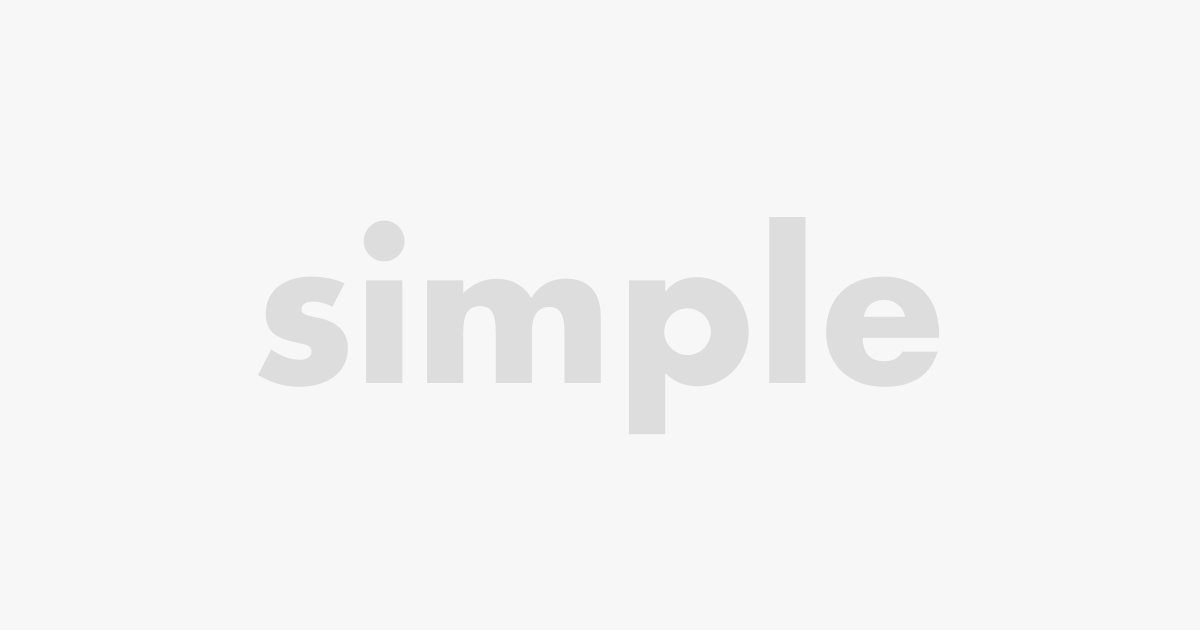
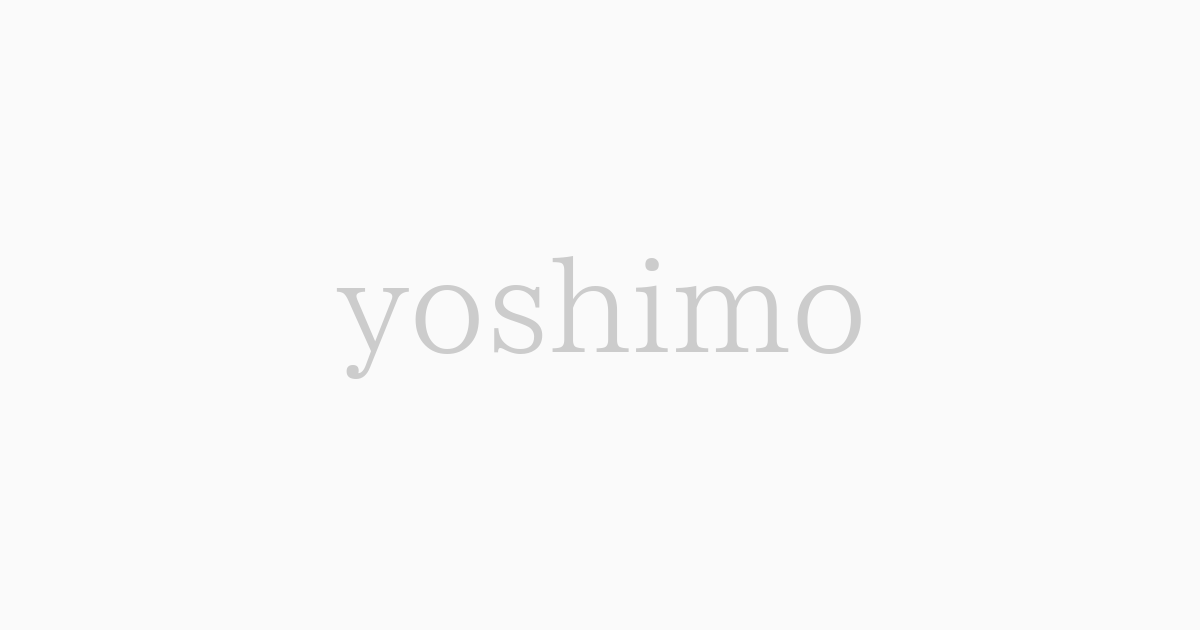
refactor:Adjusting styling and changing wording(#45)

Changed region(s): [[0.2158, 0.3317, 0.8017, 0.6937]]

diff --git a/app/layout.tsx b/app/layout.tsx
@@ -11,11 +11,11 @@ const inter = Inter({ subsets: ['latin'] })
 
 export const metadata: Metadata = {
   metadataBase: new URL(process.env.BASE_URL || 'http://localhost:3000'),
-  title: 'Simple Blog',
-  description: 'A simple blog presented by microCMS',
+  title: 'Yoshimo Blog',
+  description: 'A yoshimo blog presented by yoshimo',
   openGraph: {
-    title: 'Simple Blog',
-    description: 'A simple blog presented by microCMS',
+    title: 'Yoshimo Blog',
+    description: 'A yoshimo blog presented by yoshimo',
     images: '/ogp.png',
   },
   alternates: {

diff --git a/components/article/index.tsx b/components/article/index.tsx
@@ -10,7 +10,7 @@ type Props = {
 export default function Article({ data }: Props) {
   return (
     <main className="flex flex-col justify-between items-center">
-      <h1 className="text-4xl mb-6 text-center">{data.title}</h1>
+      <h1 className="text-4xl mb-6 text-center font-bold">{data.title}</h1>
       <TagList tags={data.tags} />
       <p className="my-6 mx-10 sm:mx-0 sm:mt-6 sm:mb-10 text-[#999] text-center">
         {data.description}

diff --git a/components/searchField/index.tsx b/components/searchField/index.tsx
@@ -25,7 +25,7 @@ export default function SearchField() {
       name="q"
       ref={inputRef}
       className="py-0 pr-6 pl-12 border-y border-x border-solid border-[#ccc]
-      rounded-2xl w-full sm:w-[600px] height-[40px] box-border my-0 mx-6 sm:mx-0
+      rounded-3xl w-full sm:w-[600px] h-10 box-border my-0 mx-6 sm:mx-0
       bg-[url('/search.svg')] bg-no-repeat"
       style={{
         backgroundPosition: '16px center',

diff --git a/components/articleListItem/index.tsx b/components/articleListItem/index.tsx
@@ -11,7 +11,7 @@ type Props = {
 export default function ArticleListItem({ article }: Props) {
   return (
     <li className="mb-10">
-      <Link href={`/articles/${article.id}`} className="block sm:flex gap-40">
+      <Link href={`/articles/${article.id}`} className="block sm:flex gap-10">
         {article.thumbnail ? (
           <picture>
             <source

diff --git a/components/footer/index.tsx b/components/footer/index.tsx
@@ -1,7 +1,7 @@
 export default function Footer() {
   return (
     <footer className="py-4 px-6 text-center">
-      <p className="text-[#333] text-xs">© SIMPLE. All Rights Reserved 2023</p>
+      <p className="text-[#333] text-xs">© YOSHIMO. All Rights Reserved 2023</p>
     </footer>
   )
 }

diff --git a/components/header/index.tsx b/components/header/index.tsx
@@ -7,7 +7,7 @@ export default function Header() {
       <Link href="/">
         <Image
           src="/logo.svg"
-          alt="SIMPLE"
+          alt="YOSHIMO"
           className="h-6 w-auto"
           width={348}
           height={133}
